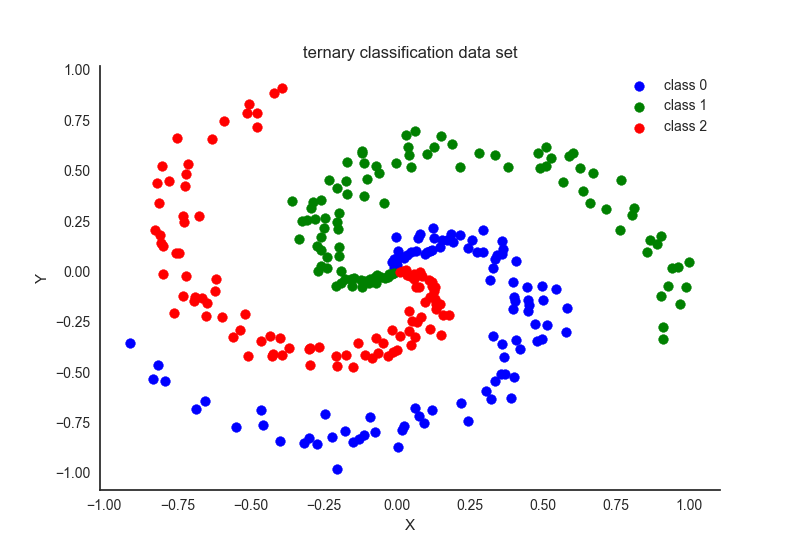
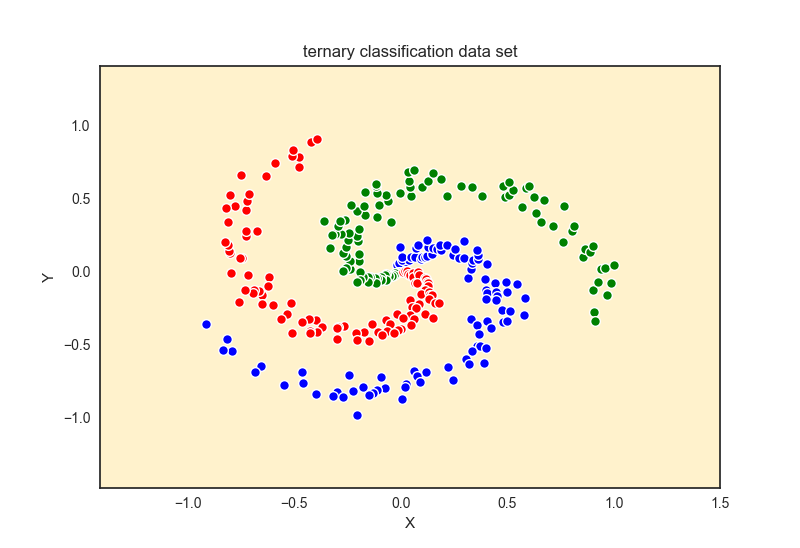
pics update

diff --git a/02.LinearModel.py b/02.LinearModel.py
@@ -59,3 +59,8 @@ ax.legend()
 ax.set(xlabel='X', ylabel='Y', title='classification result for linear model')
 # fig.show()
 fig.savefig('pic/linear_result.png', dpi=fig.dpi)
+
+# some plot commands
+# ax.set_xlim(xmin=x_min, xmax=x_max)
+# ax.set_ylim(ymin=y_min, ymax=y_max)
+# ax.set_facecolor('#fff2cc')
